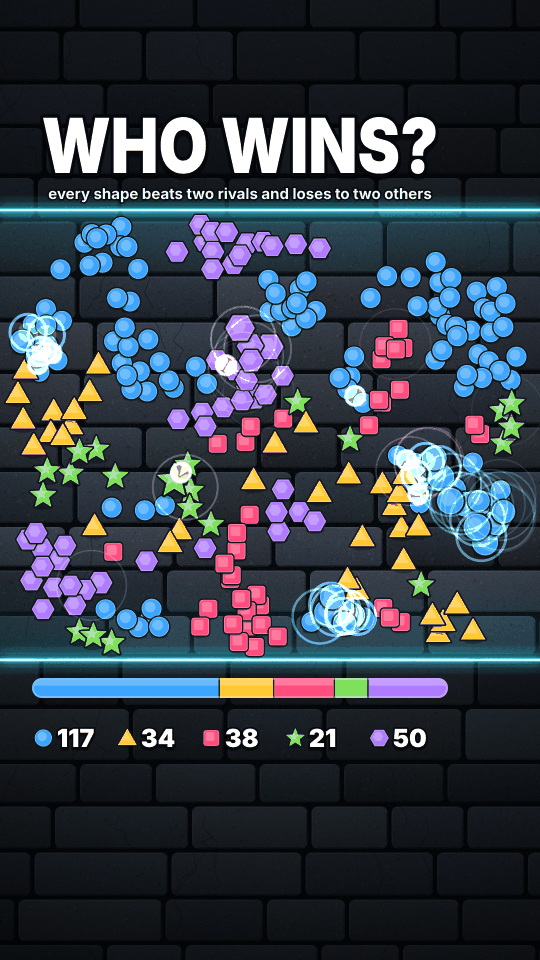
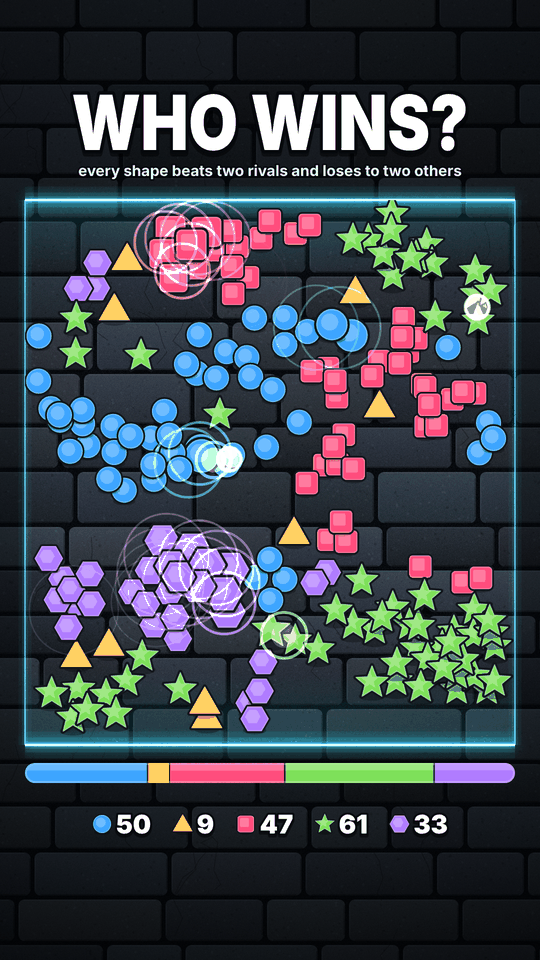
fix(swarm): centre both clips on x = 540, enlarge sprites, re-pick seeds
Framing standard: everything is centred on x = 540 with equal margins, the
block is centred around y = 940 and nothing important sits in the bottom
200 px.

- paint: arena is 980 px wide with 50 px margins and a closed cyan glow box,
  1090 px tall (was 900); title, rules line, share bar (980 px) and caption are
  centred on x = 540; the counter row is centred by its actual width; text and
  numbers stay inside the central 840 px, the counter row ends at y = 1690.
  The shared 150 px right-margin rule no longer applies to these clips, so the
  painter checks its own framing zone instead of REEL_SAFE_BOUNDS.
- sim: arena 980x1090, sprite radius +25% (27.5 and 26.5 px), fewer sprites
  (180 classic, 200 five rivals), physics retuned for the new geometry.
- seeds re-picked with the seed search: 726 (rock wins at 35.1 s) and 463
  (circle wins at 34.5 s).
- tests: centring of title, rules, bar, caption and the counter row; framing
  zone instead of the old reel-safe bounds.
- README rows and previews updated.

diff --git a/src/swarm/paint.ts b/src/swarm/paint.ts
@@ -1,33 +1,62 @@
 import { VIDEO } from "../settings.ts";
-import { assertReelSafeBox, type ReelBox } from "../shared/reelUtils.ts";
+import type { ReelBox } from "../shared/reelUtils.ts";
 import { easeOut } from "../theme.ts";
 import { mulberry32, SWARM_ARENA, type SwarmTrace } from "./sim.ts";
 import { drawSprite, drawTypeIcon, lighten } from "./sprites.ts";
 import type { SwarmDefinition, SwarmIcon } from "./themes.ts";
 
-/** Canvas layout in px. Text, numbers, bar and caption stay inside the reel-safe zone (x 60..900, y 220..1560). */
+/**
+ * Canvas layout in px, following the framing standard: everything is centred
+ * on x = 540 with equal margins, the arena fills the width (50 px margins),
+ * text and numbers stay in the central 840 px, nothing important sits within
+ * 200 px of the bottom edge, and the block is centred around y = 940.
+ */
 export const SWARM_LAYOUT = {
-  /** Safe-zone centre; the title, rules and caption are centred here. */
-  centerX: 480,
-  titleBaseline: 346,
-  rulesBaseline: 398,
-  arenaLeft: 0,
-  arenaTop: 420,
+  centerX: VIDEO.width / 2,
+  titleBaseline: 300,
+  rulesBaseline: 352,
+  arenaLeft: (VIDEO.width - SWARM_ARENA.width) / 2,
+  arenaTop: 400,
   arenaWidth: SWARM_ARENA.width,
   arenaHeight: SWARM_ARENA.height,
-  barLeft: 64,
-  barWidth: 832,
-  barTop: 1356,
+  barLeft: (VIDEO.width - SWARM_ARENA.width) / 2,
+  barWidth: SWARM_ARENA.width,
+  barTop: 1526,
   barHeight: 40,
-  counterCenterY: 1476,
-  columnsLeft: 60,
+  counterCenterY: 1648,
+  columnsLeft: 120,
   columnsWidth: 840,
 } as const;
+
+/** Where text, numbers and art may sit (px). */
+export const SWARM_SAFE = {
+  textLeft: 120,
+  textRight: 960,
+  artLeft: 40,
+  artRight: 1040,
+  top: 150,
+  bottom: 1720,
+} as const;
+
+export function swarmBoxIsSafe(box: { label: string; left: number; right: number; top: number; bottom: number }): boolean {
+  const art = box.label === "bar";
+  const left = art ? SWARM_SAFE.artLeft : SWARM_SAFE.textLeft;
+  const right = art ? SWARM_SAFE.artRight : SWARM_SAFE.textRight;
+  return (
+    Number.isFinite(box.left + box.right + box.top + box.bottom) &&
+    box.right >= box.left &&
+    box.bottom >= box.top &&
+    box.left >= left - 0.5 &&
+    box.right <= right + 0.5 &&
+    box.top >= SWARM_SAFE.top - 0.5 &&
+    box.bottom <= SWARM_SAFE.bottom + 0.5
+  );
+}
 
 /**
  * The title is at least 110 px tall as drawn: Inter caps are 0.727 em high, so
  * a 152 px face gives a 110 px cap height, squeezed horizontally to fit the
- * 840 px safe width.
+ * central 840 px.
  */
 export const TITLE_FONT_SIZE = 152;
 export const TITLE_MIN_FONT_SIZE = 110;
@@ -93,7 +122,8 @@ function roundRectPath(ctx: CanvasRenderingContext2D, x: number, y: number, w: n
 }
 
 function glowLine(g: CanvasRenderingContext2D, y: number) {
-  const W = VIDEO.width;
+  const x0 = SWARM_LAYOUT.arenaLeft;
+  const x1 = SWARM_LAYOUT.arenaLeft + SWARM_LAYOUT.arenaWidth;
   g.save();
   g.globalCompositeOperation = "lighter";
   g.lineCap = "butt";
@@ -105,8 +135,8 @@ function glowLine(g: CanvasRenderingContext2D, y: number) {
     g.strokeStyle = `rgba(38, 224, 255, ${alpha})`;
     g.lineWidth = width;
     g.beginPath();
-    g.moveTo(0, y);
-    g.lineTo(W, y);
+    g.moveTo(x0, y);
+    g.lineTo(x1, y);
     g.stroke();
   }
   g.shadowColor = CYAN;
@@ -114,15 +144,42 @@ function glowLine(g: CanvasRenderingContext2D, y: number) {
   g.strokeStyle = "#6fefff";
   g.lineWidth = 5;
   g.beginPath();
-  g.moveTo(0, y);
-  g.lineTo(W, y);
+  g.moveTo(x0, y);
+  g.lineTo(x1, y);
   g.stroke();
   g.shadowBlur = 0;
   g.strokeStyle = "#eafdff";
   g.lineWidth = 2.2;
   g.beginPath();
-  g.moveTo(0, y);
-  g.lineTo(W, y);
+  g.moveTo(x0, y);
+  g.lineTo(x1, y);
+  g.stroke();
+  g.restore();
+}
+
+/** The arena's side edges: the same glow, dimmer, so the box reads as closed. */
+function glowSide(g: CanvasRenderingContext2D, x: number) {
+  const y0 = SWARM_LAYOUT.arenaTop;
+  const y1 = SWARM_LAYOUT.arenaTop + SWARM_LAYOUT.arenaHeight;
+  g.save();
+  g.globalCompositeOperation = "lighter";
+  g.lineCap = "butt";
+  for (const [width, alpha] of [
+    [26, 0.04],
+    [12, 0.09],
+  ] as const) {
+    g.strokeStyle = `rgba(38, 224, 255, ${alpha})`;
+    g.lineWidth = width;
+    g.beginPath();
+    g.moveTo(x, y0);
+    g.lineTo(x, y1);
+    g.stroke();
+  }
+  g.strokeStyle = "rgba(111, 239, 255, 0.62)";
+  g.lineWidth = 3;
+  g.beginPath();
+  g.moveTo(x, y0);
+  g.lineTo(x, y1);
   g.stroke();
   g.restore();
 }
@@ -237,6 +294,8 @@ function buildWall(g: CanvasRenderingContext2D) {
   g.fillStyle = "rgba(2, 4, 8, 0.42)";
   g.fillRect(0, 0, W, L.arenaTop);
   g.fillRect(0, L.arenaTop + L.arenaHeight, W, H - L.arenaTop - L.arenaHeight);
+  g.fillRect(0, L.arenaTop, L.arenaLeft, L.arenaHeight);
+  g.fillRect(L.arenaLeft + L.arenaWidth, L.arenaTop, W - L.arenaLeft - L.arenaWidth, L.arenaHeight);
 
   // Light spill from the glowing edges into the arena.
   for (const edge of [0, 1]) {
@@ -246,7 +305,7 @@ function buildWall(g: CanvasRenderingContext2D) {
     spill.addColorStop(0, "rgba(38, 224, 255, 0.16)");
     spill.addColorStop(1, "rgba(38, 224, 255, 0)");
     g.fillStyle = spill;
-    g.fillRect(0, Math.min(edgeY, edgeY + dir * 150), W, 150);
+    g.fillRect(L.arenaLeft, Math.min(edgeY, edgeY + dir * 150), L.arenaWidth, 150);
   }
 
   const vignette = g.createRadialGradient(W / 2, H / 2, 420, W / 2, H / 2, 1250);
@@ -257,6 +316,8 @@ function buildWall(g: CanvasRenderingContext2D) {
 
   glowLine(g, L.arenaTop);
   glowLine(g, L.arenaTop + L.arenaHeight);
+  glowSide(g, L.arenaLeft);
+  glowSide(g, L.arenaLeft + L.arenaWidth);
 }
 
 let wallCanvas: HTMLCanvasElement | null | undefined;
@@ -281,7 +342,7 @@ function paintFlatBackdrop(ctx: CanvasRenderingContext2D) {
   ctx.fillRect(0, 0, VIDEO.width, VIDEO.height);
   for (const y of [L.arenaTop, L.arenaTop + L.arenaHeight]) {
     ctx.fillStyle = CYAN;
-    ctx.fillRect(0, y - 2, VIDEO.width, 4);
+    ctx.fillRect(L.arenaLeft, y - 2, L.arenaWidth, 4);
   }
 }
 
@@ -308,7 +369,7 @@ interface TextStyle {
 
 function pushBox(boxes: ReelBox[], label: string, left: number, top: number, right: number, bottom: number): ReelBox {
   const box: ReelBox = { label, left, top, right, bottom };
-  assertReelSafeBox(box);
+  if (!swarmBoxIsSafe(box)) throw new RangeError(`Swarm UI box outside the framing zone: ${JSON.stringify(box)}`);
   boxes.push(box);
   return box;
 }
@@ -418,7 +479,7 @@ function paintSprites(
   ctx.beginPath();
   ctx.rect(L.arenaLeft, L.arenaTop, L.arenaWidth, L.arenaHeight);
   ctx.clip();
-  ctx.translate(0, L.arenaTop);
+  ctx.translate(L.arenaLeft, L.arenaTop);
   const winPulse = f >= trace.winFrame ? f - trace.winFrame : -1;
   for (let i = 0; i < N; i++) {
     const type = trace.type[base + i];
@@ -507,11 +568,12 @@ function paintBarAndCounters(
   ctx.stroke();
   pushBox(boxes, "bar", L.barLeft, L.barTop, L.barLeft + L.barWidth, L.barTop + L.barHeight);
 
-  // Counters: stable icon slot per column, live number to its right.
+  // Counters: an icon and its live number per type. The row is centred on x = 540 by its actual
+  // width (spacing between groups is fixed), so the margins stay equal whatever the digits are.
   const columnWidth = L.columnsWidth / K;
-  const iconSize = K <= 3 ? 62 : 38;
+  const iconSize = K <= 3 ? 62 : 40;
   const gap = K <= 3 ? 16 : 8;
-  const numberSize = K <= 3 ? 84 : 50;
+  const numberSize = K <= 3 ? 84 : 56;
   const numberStyle: TextStyle = {
     size: numberSize,
     maxWidth: columnWidth - iconSize - gap - 10,
@@ -524,11 +586,21 @@ function paintBarAndCounters(
   };
   const nominalSize = fitSize(ctx, "000", 900, numberStyle);
   ctx.font = `900 ${nominalSize}px ${FONT}`;
-  const nominalWidth = ctx.measureText("000").width;
-  const groupWidth = iconSize + gap + nominalWidth;
+  // Fixed spacing, sized for the widest row the counts can make (one three-digit number, the rest two-digit);
+  // a little of the 840 px is kept back for the number outlines.
+  const budget = L.columnsWidth - 24;
+  const wideGroup = iconSize + gap + ctx.measureText("000").width;
+  const normalGroup = iconSize + gap + ctx.measureText("00").width;
+  const spacing = K > 1 ? Math.max(8, (budget - wideGroup - (K - 1) * normalGroup) / (K - 1)) : 0;
+  const groupWidths: number[] = [];
+  for (let k = 0; k < K; k++) groupWidths.push(iconSize + gap + ctx.measureText(String(counts[k])).width);
+  const groupsWidth = groupWidths.reduce((a, b) => a + b, 0);
+  const rowSpacing = K > 1 ? Math.min(spacing, Math.max(0, (budget - groupsWidth) / (K - 1))) : 0;
+  const rowWidth = groupsWidth + rowSpacing * (K - 1);
+  let cursor = L.centerX - rowWidth / 2;
   for (let k = 0; k < K; k++) {
-    const center = L.columnsLeft + columnWidth * (k + 0.5);
-    const left = center - groupWidth / 2;
+    const left = cursor;
+    cursor += groupWidths[k] + rowSpacing;
     const iconCx = left + iconSize / 2;
     const drawSize = iconSize * (skins[k].icon === "scissors" ? 1.12 : 1);
     drawTypeIcon(ctx, skins[k].icon, iconCx, L.counterCenterY, drawSize, skins[k].color);
@@ -648,10 +720,10 @@ export function paintSwarmFrame(
   ctx.strokeStyle = CYAN;
   ctx.lineWidth = 4;
   ctx.beginPath();
-  ctx.moveTo(0, L.arenaTop);
-  ctx.lineTo(VIDEO.width, L.arenaTop);
-  ctx.moveTo(0, L.arenaTop + L.arenaHeight);
-  ctx.lineTo(VIDEO.width, L.arenaTop + L.arenaHeight);
+  ctx.moveTo(L.arenaLeft, L.arenaTop);
+  ctx.lineTo(L.arenaLeft + L.arenaWidth, L.arenaTop);
+  ctx.moveTo(L.arenaLeft, L.arenaTop + L.arenaHeight);
+  ctx.lineTo(L.arenaLeft + L.arenaWidth, L.arenaTop + L.arenaHeight);
   ctx.stroke();
   ctx.restore();
 

diff --git a/src/swarm/paint.test.ts b/src/swarm/paint.test.ts
@@ -1,7 +1,6 @@
 import assert from "node:assert/strict";
 import test from "node:test";
-import { REEL_SAFE_BOUNDS } from "../shared/reelUtils.ts";
-import { barSegments, paintSwarmFrame, SWARM_LAYOUT, TITLE_CAP_HEIGHT, TITLE_FONT_SIZE, TITLE_MIN_FONT_SIZE } from "./paint.ts";
+import { barSegments, paintSwarmFrame, SWARM_LAYOUT, swarmBoxIsSafe, TITLE_CAP_HEIGHT, TITLE_FONT_SIZE, TITLE_MIN_FONT_SIZE } from "./paint.ts";
 import { SWARM_DEFINITIONS, simulateSwarmDefinition } from "./themes.ts";
 
 function makeMockCanvasContext(): CanvasRenderingContext2D {
@@ -53,13 +52,10 @@ function makeMockCanvasContext(): CanvasRenderingContext2D {
   }) as unknown as CanvasRenderingContext2D;
 }
 
-const inSafeZone = (b: { left: number; right: number; top: number; bottom: number }) =>
-  b.left >= REEL_SAFE_BOUNDS.left - 0.5 &&
-  b.right <= REEL_SAFE_BOUNDS.right + 0.5 &&
-  b.top >= REEL_SAFE_BOUNDS.top - 0.5 &&
-  b.bottom <= REEL_SAFE_BOUNDS.bottom + 0.5;
+const inSafeZone = swarmBoxIsSafe;
+const centreX = (b: { left: number; right: number }) => (b.left + b.right) / 2;
 
-test("swarm HUD, title and caption stay inside the reel-safe zone with a 110 px+ title", () => {
+test("swarm HUD, title and caption sit in the framing zone, centred on x = 540, with a 110 px+ title", () => {
   assert.ok(TITLE_MIN_FONT_SIZE >= 110 && TITLE_FONT_SIZE >= TITLE_MIN_FONT_SIZE);
   assert.ok(TITLE_CAP_HEIGHT >= 110, "drawn cap height, not only the font size, is 110 px or more");
   const ctx = makeMockCanvasContext();
@@ -74,6 +70,12 @@ test("swarm HUD, title and caption stay inside the reel-safe zone with a 110 px+
       assert.ok(title.bottom - title.top >= TITLE_MIN_FONT_SIZE, `${definition.id}: title shorter than ${TITLE_MIN_FONT_SIZE}px`);
       assert.ok(boxes.some((b) => b.label === definition.skin.rules), `${definition.id}: rules line missing`);
       assert.ok(boxes.some((b) => b.label === "bar"));
+      // Framing standard: title, rules line, bar and caption are centred on x = 540, text stays in the central 840 px.
+      const centred = boxes.filter((b) => b.label === definition.skin.title || b.label === definition.skin.rules || b.label === "bar" || /WINS$/.test(b.label));
+      for (const box of centred) assert.ok(Math.abs(centreX(box) - 540) <= 2, `${definition.id} f${frame}: "${box.label}" centred at ${centreX(box).toFixed(1)}`);
+      for (const box of boxes) if (box.label !== "bar") assert.ok(box.left >= 120 - 0.5 && box.right <= 960 + 0.5, `${definition.id} f${frame}: "${box.label}" leaves the central 840 px`);
+      const bar = boxes.find((b) => b.label === "bar");
+      assert.ok(bar && Math.abs(bar.left - (1080 - bar.right)) < 0.5, "equal bar margins");
     }
   }
 });
@@ -102,6 +104,11 @@ test("the painted counters always add up to the sprite total and match the trace
       const boxes = paintSwarmFrame(ctx, definition, trace, frame);
       const numbers = boxes.filter((b) => /^\d+$/.test(b.label)).map((b) => Number(b.label));
       assert.equal(numbers.length, trace.types);
+      // The counter row (icons and numbers) is centred on x = 540 whatever the digits are.
+      const row = boxes.filter((b) => /icon$/.test(b.label) || /^\d+$/.test(b.label));
+      const rowLeft = Math.min(...row.map((b) => b.left));
+      const rowRight = Math.max(...row.map((b) => b.right));
+      assert.ok(Math.abs((rowLeft + rowRight) / 2 - 540) <= 8, `${definition.id} f${frame}: counter row centred at ${((rowLeft + rowRight) / 2).toFixed(1)}`);
       assert.equal(numbers.reduce((a, b) => a + b, 0), trace.count, `${definition.id} f${frame}`);
       assert.deepEqual(numbers, Array.from(trace.counts.subarray(frame * trace.types, (frame + 1) * trace.types)));
     }

diff --git a/src/swarm/themes.ts b/src/swarm/themes.ts
@@ -92,12 +92,12 @@ export const SWARM_DEFINITIONS: readonly SwarmDefinition[] = [
     skin: CLASSIC_SKIN,
     config: {
       id: "swarm-rps-classic",
-      // Picked with scripts/search-swarm-seed.ts (seeds 1..1000): rock falls to a single sprite at 25 s and still wins at 35.5 s.
-      seed: 135,
-      count: 240,
+      // Picked with scripts/search-swarm-seed.ts (seeds 1..1000): rock falls to 2 of 180 sprites at 23 s and still wins at 35.1 s.
+      seed: 726,
+      count: 180,
       types: 3,
       rules: CLASSIC_RULES,
-      radius: 22,
+      radius: 27.5,
       arena: SWARM_ARENA,
       physics: { ...DEFAULT_SWARM_PHYSICS },
       maxPlayFrames: 52 * 60,
@@ -120,14 +120,14 @@ export const SWARM_DEFINITIONS: readonly SwarmDefinition[] = [
     skin: FIVE_RIVALS_SKIN,
     config: {
       id: "swarm-five-rivals",
-      // Picked with scripts/search-swarm-seed.ts (seeds 1..1000): three rivals stay alive past 30 s, the square falls to one sprite at 16.6 s and still wins at 34.2 s.
-      seed: 68,
-      count: 260,
+      // Picked with scripts/search-swarm-seed.ts (seeds 1..1000): the circle falls to 1 of 200 sprites at 22.6 s and still wins at 34.5 s.
+      seed: 463,
+      count: 200,
       types: 5,
       rules: cyclicRules(5, 2),
-      radius: 21,
+      radius: 26.5,
       arena: SWARM_ARENA,
-      physics: { ...DEFAULT_SWARM_PHYSICS, speed: 55, sight: 100 },
+      physics: { ...DEFAULT_SWARM_PHYSICS, speed: 50, sight: 125 },
       maxPlayFrames: 52 * 60,
       holdFrames: SWARM_HOLD_FRAMES,
     },

diff --git a/src/swarm/sim.ts b/src/swarm/sim.ts
@@ -16,7 +16,7 @@ export const SWARM_DT = 1 / SWARM_FPS;
 /** Every clip ends on exactly three seconds of winner caption. */
 export const SWARM_HOLD_FRAMES = VIDEO.fps * 3;
 /** Playfield in its own coordinates; the painter places it on the canvas. */
-export const SWARM_ARENA = { width: 1080, height: 900 } as const;
+export const SWARM_ARENA = { width: 980, height: 1090 } as const;
 
 /** `rules[a][b] === 1` means type `a` converts type `b` on contact. */
 export type SwarmRules = readonly (readonly number[])[];
@@ -63,9 +63,9 @@ export interface SwarmConfig {
 }
 
 export const DEFAULT_SWARM_PHYSICS: SwarmPhysics = {
-  speed: 60,
+  speed: 55,
   chaseBoost: 0.1,
-  sight: 110,
+  sight: 130,
   steerRate: 5,
   wander: 0.35,
   holdWeight: 1,

diff --git a/README.md b/README.md
@@ -78,8 +78,8 @@ Every composition renders at 1080 × 1920 and 60 fps, closing with a code end ca
 | `PatateMergeCodingAgents` | Costumed coding-agent potatoes drop down a glass neck and merge up an 8-tier rainbow flask (*copilotienne* → *codexienne* → *claude-codienne* → *oyrenienne*) with pitch-scaled French voice callouts. | Swap tier playback rates, radii, or costumes in `src/patate/themes.ts`. |
 | `PatateMergeWorldToCode` | Classic world-patate progression (*turque*, *mexicaine*, *italienne*, *française*) plot-twisting at Tier 6 into *codexienne*, *claude-codienne*, and *oyrenienne*. | Change drop cadence or chain-reaction radial impulse in `src/patate/sim.ts`. |
 | `PatateMergeLanguages` | Eight-tier programming-language patate evolution (*bashienne* → *javascriptienne* → *pythonienne* → *typescriptienne* → *go-langienne* → *rustienne* → *lean-quatrienne*). | Add a new language costume in `src/patate/paint.ts` or adjust interrupt timing in `src/patate/audio.ts`. |
-| `SwarmRpsClassic` | 240 rock, paper and scissors sprites chase, flee and convert each other on contact while a live share bar and counters follow the swarm. Seed `135` came from a search over seeds 1 to 1000 (78 met the arc criteria; it was picked among the top scorers because all three types stay alive until 28 s and the last lead change comes at 33 s): 10 lead changes, rock fell to 1 of 240 sprites at 25.1 s and still wins, the last rival disappears at 35.5 s of a 38.5 s clip, then a 3 s `ROCK WINS` hold. | Edit `CLASSIC_RULES` in `src/swarm/themes.ts` (for example let rock beat both rivals), or change `count`, `radius` and the physics, then rerun `scripts/search-swarm-seed.ts`. |
-| `SwarmFiveRivals` | 260 circles, triangles, squares, stars and hexagons play a five-way cycle: each shape beats two rivals and loses to two, with five distinct conversion timbres. Seed `68` came from the same search (124 of 1000 qualified; it keeps three shapes alive until 30.9 s and the last lead change comes at 30.3 s): 10 lead changes, square fell to 1 of 260 sprites at 16.6 s and still wins, the last rival disappears at 34.2 s of a 37.2 s clip, then a 3 s `SQUARE WINS` hold. | Replace `cyclicRules(5, 2)` in `src/swarm/themes.ts` with another tournament matrix, or add a sixth skin entry and rules row. |
+| `SwarmRpsClassic` | 180 large rock, paper and scissors sprites chase, flee and convert each other on contact inside a centred cyan-edged arena while a live share bar and counters follow the swarm. Seed `726` came from a search over seeds 1 to 1000 (67 met the arc criteria; it was picked among the top scorers because all three types stay alive until 30 s and the last lead change comes at 33.3 s): 10 lead changes, rock fell to 2 of 180 sprites at 23.3 s and still wins, the last rival disappears at 35.1 s of a 38.1 s clip, then a 3 s `ROCK WINS` hold. | Edit `CLASSIC_RULES` in `src/swarm/themes.ts` (for example let rock beat both rivals), or change `count`, `radius` and the physics, then rerun `scripts/search-swarm-seed.ts`. |
+| `SwarmFiveRivals` | 200 circles, triangles, squares, stars and hexagons play a five-way cycle: each shape beats two rivals and loses to two, with five distinct conversion timbres. Seed `463` came from the same search (122 of 1000 qualified; three shapes stay alive until 29.8 s and the last lead change comes at 31.7 s): 9 lead changes, the circle fell to 1 of 200 sprites at 22.6 s and still wins, the last rival disappears at 34.5 s of a 37.5 s clip, then a 3 s `CIRCLE WINS` hold. | Replace `cyclicRules(5, 2)` in `src/swarm/themes.ts` with another tournament matrix, or add a sixth skin entry and rules row. |
 
 ## Run locally
 
@@ -163,7 +163,7 @@ The four-stage arcade ball-drop scenes pair 480 Hz fixed-step collision resoluti
 
 The Patate Merge scenes integrate 240 Hz rigid-body circle dynamics with rotational friction inside a narrow top neck chute joined to a circular boiling flask (`R = 462 px`). Identical tiers (`1` through `7`) merge into the next tier (`32 px` up to `178 px`), triggering concentric shockwaves, radial impulses, 8-slot portrait unlocks, and Catmull-Rom coupled pitch-and-speed resampled French announcements (`1.38×` down to `0.64×`) with chain-merge vocal interrupts.
 
-The swarm scenes (`SwarmRpsClassic`, `SwarmFiveRivals`) share one engine, `src/swarm/sim.ts`: a rules matrix says which type converts which on contact, and a skin in `src/swarm/themes.ts` adds names, colours, icons and sounds, so a new game is a new matrix plus a new skin. One fixed `1/60 s` step runs per video frame from a `mulberry32` stream, and the whole run is computed once per process; each frame only reads a snapshot. Every sprite looks for the nearest prey and the nearest predator inside a sight radius, steers toward the first and away from the second with a little noise, keeps a soft distance from its own kind, and bounces off the arena walls; a spatial grid keeps a few hundred sprites cheap. Contact (centres closer than two radii) turns the loser into the winner's type, at most once per sprite per step and always judged on the types at the start of the step, and emits an event that drives the pop, the ring flash and the sound. After 26 s a slow aggression ramp speeds the chasers and widens their sight so a stalled endgame still ends. The loop uses only exactly rounded arithmetic (`+ - * /` and `sqrt`): `Math.sin` and `Math.cos` differ in the last bit between Node and Chrome, which would make the audio rendered in Node drift away from the video drawn in the browser. The seeds were chosen offline with `scripts/search-swarm-seed.ts`, which scores seeds 1 to 1000 on lead changes, a comeback of the eventual winner after the first quarter of the clip, and a last survivor that emerges late; the tests repeat those checks for the chosen seeds.
+The swarm scenes (`SwarmRpsClassic`, `SwarmFiveRivals`) share one engine, `src/swarm/sim.ts`: a rules matrix says which type converts which on contact, and a skin in `src/swarm/themes.ts` adds names, colours, icons and sounds, so a new game is a new matrix plus a new skin. One fixed `1/60 s` step runs per video frame from a `mulberry32` stream, and the whole run is computed once per process; each frame only reads a snapshot. Every sprite looks for the nearest prey and the nearest predator inside a sight radius, steers toward the first and away from the second with a little noise, keeps a soft distance from its own kind, and bounces off the arena walls; a spatial grid keeps a few hundred sprites cheap. Contact (centres closer than two radii) turns the loser into the winner's type, at most once per sprite per step and always judged on the types at the start of the step, and emits an event that drives the pop, the ring flash and the sound. After 26 s a slow aggression ramp speeds the chasers and widens their sight so a stalled endgame still ends. The loop uses only exactly rounded arithmetic (`+ - * /` and `sqrt`): `Math.sin` and `Math.cos` differ in the last bit between Node and Chrome, which would make the audio rendered in Node drift away from the video drawn in the browser. The painter follows the framing standard (everything centred on x = 540, a 980 px wide arena with 50 px margins, text inside the central 840 px, the block centred around y = 940, nothing important in the bottom 200 px). The seeds were chosen offline with `scripts/search-swarm-seed.ts`, which scores seeds 1 to 1000 on lead changes, a comeback of the eventual winner after the first quarter of the clip, and a last survivor that emerges late; the tests repeat those checks for the chosen seeds.
 
 ## Where to change things
 
@@ -189,7 +189,7 @@ The swarm scenes (`SwarmRpsClassic`, `SwarmFiveRivals`) share one engine, `src/s
 | `src/swarm/sim.ts` | Deterministic cyclic-chase engine: rules matrix, spatial grid, steering, contact conversions, run metrics, and the arc scoring used by the seed search |
 | `src/swarm/themes.ts` | Swarm skins (names, colours, icons, sounds), the two compositions, their seeds, physics and arc criteria |
 | `src/swarm/sprites.ts` | Original vector sprites: rock, paper, scissors, circle, triangle, square, star, hexagon |
-| `src/swarm/paint.ts` | Stone-wall arena, glow lines, sprites, pop and ring effects, share bar, counters, and the winner caption inside the reel-safe zone |
+| `src/swarm/paint.ts` | Stone-wall arena, glow box, sprites, pop and ring effects, share bar, counters, and the winner caption, all centred on x = 540 |
 | `src/swarm/audio.ts` | Rate-limited per-type conversion sounds, tension bed, and finish chime |
 | `scripts/search-swarm-seed.ts` | Offline seed search that scores lead changes, comeback depth and finish time |
 | `src/shared/reelUtils.ts` | Reel safe-zone bounds assertions and procedural geometric emblem renderer |
